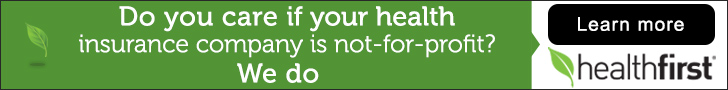
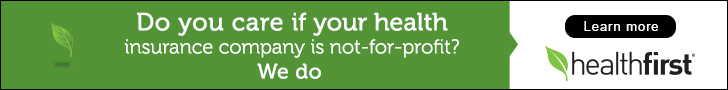
728x90 drawer update

diff --git a/Brand_NFP_English_Display/728x90/dist/index.html b/Brand_NFP_English_Display/728x90/dist/index.html
@@ -1,4 +1,4 @@
-<!DOCTYPE html><html><head><title>Brand_NFP_English_Display_728x90</title><meta charset="utf-8"><meta http-equiv="X-UA-Compatible" content="IE=edge,chrome=1"><meta name="viewport" content="width=device-width,initial-scale=1,maximum-scale=1,user-scalable=no"><meta name="ad.size" content="width=728,height=90"><style media="screen, projection">a,abbr,acronym,address,applet,article,aside,audio,b,big,blockquote,body,canvas,caption,center,cite,code,dd,del,details,dfn,div,dl,dt,em,embed,fieldset,figcaption,figure,footer,form,h1,h2,h3,h4,h5,h6,header,hgroup,html,i,iframe,img,ins,kbd,label,legend,li,mark,menu,nav,object,ol,output,p,pre,q,ruby,s,samp,section,small,span,strike,strong,sub,summary,sup,table,tbody,td,tfoot,th,thead,time,tr,tt,u,ul,var,video{margin:0;padding:0;border:0;font:inherit;font-size:100%;vertical-align:baseline}html{line-height:1}ol,ul{list-style:none}table{border-collapse:collapse;border-spacing:0}caption,td,th{text-align:left;font-weight:400;vertical-align:middle}blockquote,q{quotes:none}blockquote:after,blockquote:before,q:after,q:before{content:"";content:none}a img{border:none}article,aside,details,figcaption,figure,footer,header,hgroup,main,menu,nav,section,summary{display:block}*,:after,:before{-moz-box-sizing:border-box;-webkit-box-sizing:border-box;box-sizing:border-box}#bg,#click_through,#copy-1,#copy-2,#drawer,#drawer-bg,#leaf,#lockup,#logo,#wrapper,.abs-pos{position:absolute;top:0;left:0;width:728px;height:90px;overflow:hidden}#bg{background:#569035}#wrapper{position:relative;visibility:hidden}#wrapper.show{visibility:visible}#click_through{z-index:999;cursor:pointer;background-color:rgba(255,255,255,0);border:1px solid #000}#leaf{background:url(./sprites-sdd1969a0f3.png) 0 -180px}#logo{background:url(./sprites-sdd1969a0f3.png) 0 -360px}#copy-1{background:url(./sprites-sdd1969a0f3.png) 0 0}#copy-2{background:url(./sprites-sdd1969a0f3.png) 0 -90px}#lockup{background:url(./sprites-sdd1969a0f3.png) 0 -270px}</style></head><body><div id="wrapper"><div id="bg"></div><div id="click_through"></div><div id="leaf"></div><div id="copy-1"></div><div id="copy-2"></div><div id="logo"></div><div id="drawer"><svg version="1.1" id="Layer_1" xmlns="https://www.w3.org/2000/svg" xmlns:xlink="https://www.w3.org/1999/xlink" x="0px" y="0px" viewBox="0 0 728 90" style="enable-background:new 0 0 728 90" xml:space="preserve"><style type="text/css">.st0{fill:#FFFFFF;}</style><polygon class="st0" points="510,90 510,55 518,44 510,33 510,0 728,0 728,90 "/></svg></div><div id="lockup"></div></div><script type="text/javascript" src="https://s0.2mdn.net/ads/studio/cached_libs/tweenmax_1.18.0_499ba64a23378545748ff12d372e59e9_min.js"></script><script type="text/javascript">var HF=HF||{};!function(){function s(s){if("string"==typeof s)for(var t=0;t<this.length;t++)if(1===this[t].nodeType&&this[t].className.match(new RegExp("(\\s|^)"+s+"(\\s|$)")))return!0;return!1}function t(s){if("string"==typeof s)for(var t=0;t<this.length;t++)if(!this.hasClass(s))for(var e=0;e<this.length;e++)this[e].className+=(""===this[e].className?"":" ")+s;return this}function e(s){if("string"==typeof s)for(var t=0;t<this.length;t++)if(this.hasClass(s)){var e=new RegExp("(\\s|^)"+s+"(\\s|$)");this[t].className=this[t].className.replace(e," ")}return this}HF.$=function(r){var a,i=!!document.querySelectorAll;if(i)try{a=document.querySelectorAll(r),a.hasClass=s,a.addClass=t,a.removeClass=e}catch(n){}return a}}();</script><script type="text/javascript">var HF=HF||{};!function(){"use strict";HF.useFallback=function(){var e=10,n=-1,a=navigator.userAgent,r=new RegExp("MSIE ([0-9]{1,}[.0-9]{0,})");return null!==r.exec(a)&&(n=parseFloat(RegExp.$1)),n>0&&n<=e}}();</script><script type="text/javascript">var nameSpace=HF||{};!function(){"use strict";var e,a,o,t,n,c,i;nameSpace.init=function(){i=[];for(var e=document.getElementsByTagName("*"),r=0;r<e.length;r++){var p=e[r];p.id&&(window[p.id]=document.getElementById(p.id),"wrapper"!==p.id&&"click_through"!==p.id&&"bg"!==p.id&&i.push(p))}n=728,c=90,i.forEach(function(e){}),TweenMax.set(["#copy-1"],{x:728,y:0,autoAlpha:0}),TweenMax.set(["#copy-2"],{x:728,y:0,autoAlpha:0}),TweenMax.set(["#drawer","#lockup"],{x:250,autoAlpha:1}),TweenMax.set(["#logo"],{y:0,autoAlpha:1}),TweenMax.set(["#leaf"],{x:-250,y:0,scale:.6,autoAlpha:0}),TweenMax.set("#drawer-bg",{y:0,autoAlpha:1}),a=nameSpace.$("#wrapper"),o=document.getElementById("click_through"),t=nameSpace.$("#cta"),a.addClass("show"),nameSpace.initClickTag(),nameSpace.initAnimation(),nameSpace.useFallback()?nameSpace.injectFallback():nameSpace.startAnimation(),click_through.onmouseover=function(){TweenMax.to("#cta",.2,{scale:1.25,y:0,transformOrigin:"65% 80%",z:.01,force3D:!0,rotationZ:.01,transformPerspective:400})},click_through.onmouseout=function(){TweenMax.to("#cta",.2,{scale:1,force3D:!0,z:.01,rotationZ:.01,transformPerspective:400,y:0})}},nameSpace.initClickTag=function(){o.onclick=function(){window.open(window.clickTag)}},nameSpace.injectFallback=function(){for(var e=document.body;e.firstChild;)e.removeChild(e.firstChild);var a=document.createElement("a");a.style.cursor="pointer";var o=new Image;o.src="././static.jpg",a.appendChild(o),a.onclick=function(){window.open(window.clickTag)},document.body.appendChild(a)},nameSpace.initAnimation=function(){e=new TimelineMax({delay:1.5,onComplete:nameSpace.onAnimationComplete}),e.pause(),e.to(["#logo"],.3,{autoAlpha:0,transformPerspective:400,force3D:!0,rotationZ:.01,ease:Power1.easeInOut},"+= 0").to("#leaf",1,{x:-250,autoAlpha:1,scale:.6,transformPerspective:400,force3D:!0,rotationZ:.01,ease:Power1.easeOut},"+=0.75").to("#copy-1",1.3,{x:100,autoAlpha:1,transformPerspective:400,force3D:!0,rotationZ:.01,ease:Power1.easeOut},"-= 1.3").to(["#copy-1","#copy-2"],1.2,{y:0,x:100,autoAlpha:1,transformPerspective:400,force3D:!0,rotationZ:.01,ease:Power1.easeOut},"+=1.75").to(["#lockup","#drawer","#copy-1","#copy-2"],1.25,{x:0,autoAlpha:1,transformPerspective:400,force3D:!0,rotationZ:.01,ease:Power1.easeInOut},"+=2").to("#leaf",1.25,{x:-300,transformPerspective:400,force3D:!0,rotationZ:.01,ease:Power1.easeInOut},"-=1.25")},nameSpace.startAnimation=function(){e.play()},nameSpace.onAnimationComplete=function(){console.log("Animation Duration: "+e.time()+"s")}}();</script><script type="text/javascript">var clickTag = 'https://www.google.com';
+<!DOCTYPE html><html><head><title>Brand_NFP_English_Display_728x90</title><meta charset="utf-8"><meta http-equiv="X-UA-Compatible" content="IE=edge,chrome=1"><meta name="viewport" content="width=device-width,initial-scale=1,maximum-scale=1,user-scalable=no"><meta name="ad.size" content="width=728,height=90"><style media="screen, projection">a,abbr,acronym,address,applet,article,aside,audio,b,big,blockquote,body,canvas,caption,center,cite,code,dd,del,details,dfn,div,dl,dt,em,embed,fieldset,figcaption,figure,footer,form,h1,h2,h3,h4,h5,h6,header,hgroup,html,i,iframe,img,ins,kbd,label,legend,li,mark,menu,nav,object,ol,output,p,pre,q,ruby,s,samp,section,small,span,strike,strong,sub,summary,sup,table,tbody,td,tfoot,th,thead,time,tr,tt,u,ul,var,video{margin:0;padding:0;border:0;font:inherit;font-size:100%;vertical-align:baseline}html{line-height:1}ol,ul{list-style:none}table{border-collapse:collapse;border-spacing:0}caption,td,th{text-align:left;font-weight:400;vertical-align:middle}blockquote,q{quotes:none}blockquote:after,blockquote:before,q:after,q:before{content:"";content:none}a img{border:none}article,aside,details,figcaption,figure,footer,header,hgroup,main,menu,nav,section,summary{display:block}*,:after,:before{-moz-box-sizing:border-box;-webkit-box-sizing:border-box;box-sizing:border-box}#bg,#click_through,#copy-1,#copy-2,#drawer,#drawer-bg,#leaf,#lockup,#logo,#wrapper,.abs-pos{position:absolute;top:0;left:0;width:728px;height:90px;overflow:hidden}#bg{background:#569035}#wrapper{position:relative;visibility:hidden}#wrapper.show{visibility:visible}#click_through{z-index:999;cursor:pointer;background-color:rgba(255,255,255,0);border:1px solid #000}#leaf{background:url(./sprites-sdd1969a0f3.png) 0 -180px}#logo{background:url(./sprites-sdd1969a0f3.png) 0 -360px}#copy-1{background:url(./sprites-sdd1969a0f3.png) 0 0}#copy-2{background:url(./sprites-sdd1969a0f3.png) 0 -90px}#lockup{background:url(./sprites-sdd1969a0f3.png) 0 -270px}</style></head><body><div id="wrapper"><div id="bg"></div><div id="click_through"></div><div id="leaf"></div><div id="copy-1"></div><div id="copy-2"></div><div id="logo"></div><div id="drawer"><svg version="1.1" id="Layer_1" xmlns="https://www.w3.org/2000/svg" xmlns:xlink="https://www.w3.org/1999/xlink" x="0px" y="0px" viewBox="0 0 728 90" style="enable-background:new 0 0 728 90" xml:space="preserve"><style type="text/css">.st0{fill:#FFFFFF;}</style><polygon class="st0" points="510,90 510,55 518,44 510,33 510,0 728,0 728,90 "/></svg></div><div id="lockup"></div></div><script type="text/javascript" src="https://s0.2mdn.net/ads/studio/cached_libs/tweenmax_1.18.0_499ba64a23378545748ff12d372e59e9_min.js"></script><script type="text/javascript">var HF=HF||{};!function(){function s(s){if("string"==typeof s)for(var t=0;t<this.length;t++)if(1===this[t].nodeType&&this[t].className.match(new RegExp("(\\s|^)"+s+"(\\s|$)")))return!0;return!1}function t(s){if("string"==typeof s)for(var t=0;t<this.length;t++)if(!this.hasClass(s))for(var e=0;e<this.length;e++)this[e].className+=(""===this[e].className?"":" ")+s;return this}function e(s){if("string"==typeof s)for(var t=0;t<this.length;t++)if(this.hasClass(s)){var e=new RegExp("(\\s|^)"+s+"(\\s|$)");this[t].className=this[t].className.replace(e," ")}return this}HF.$=function(r){var a,i=!!document.querySelectorAll;if(i)try{a=document.querySelectorAll(r),a.hasClass=s,a.addClass=t,a.removeClass=e}catch(n){}return a}}();</script><script type="text/javascript">var HF=HF||{};!function(){"use strict";HF.useFallback=function(){var e=10,n=-1,a=navigator.userAgent,r=new RegExp("MSIE ([0-9]{1,}[.0-9]{0,})");return null!==r.exec(a)&&(n=parseFloat(RegExp.$1)),n>0&&n<=e}}();</script><script type="text/javascript">var nameSpace=HF||{};!function(){"use strict";var e,a,o,t,n,c,i;nameSpace.init=function(){i=[];for(var e=document.getElementsByTagName("*"),r=0;r<e.length;r++){var p=e[r];p.id&&(window[p.id]=document.getElementById(p.id),"wrapper"!==p.id&&"click_through"!==p.id&&"bg"!==p.id&&i.push(p))}n=728,c=90,i.forEach(function(e){}),TweenMax.set(["#copy-1"],{x:780,y:0,autoAlpha:0}),TweenMax.set(["#copy-2"],{x:728,y:0,autoAlpha:0}),TweenMax.set(["#drawer","#lockup"],{x:250,autoAlpha:1}),TweenMax.set(["#logo"],{y:0,autoAlpha:1}),TweenMax.set(["#leaf"],{x:478,y:0,scale:.6,autoAlpha:1}),TweenMax.set("#drawer-bg",{y:0,autoAlpha:1}),a=nameSpace.$("#wrapper"),o=document.getElementById("click_through"),t=nameSpace.$("#cta"),a.addClass("show"),nameSpace.initClickTag(),nameSpace.initAnimation(),nameSpace.useFallback()?nameSpace.injectFallback():nameSpace.startAnimation(),click_through.onmouseover=function(){TweenMax.to("#cta",.2,{scale:1.25,y:0,transformOrigin:"65% 80%",z:.01,force3D:!0,rotationZ:.01,transformPerspective:400})},click_through.onmouseout=function(){TweenMax.to("#cta",.2,{scale:1,force3D:!0,z:.01,rotationZ:.01,transformPerspective:400,y:0})}},nameSpace.initClickTag=function(){o.onclick=function(){window.open(window.clickTag)}},nameSpace.injectFallback=function(){for(var e=document.body;e.firstChild;)e.removeChild(e.firstChild);var a=document.createElement("a");a.style.cursor="pointer";var o=new Image;o.src="././static.jpg",a.appendChild(o),a.onclick=function(){window.open(window.clickTag)},document.body.appendChild(a)},nameSpace.initAnimation=function(){e=new TimelineMax({delay:1.5,onComplete:nameSpace.onAnimationComplete}),e.pause(),e.to(["#logo"],.3,{autoAlpha:0,transformPerspective:400,force3D:!0,rotationZ:.01,ease:Power1.easeInOut},"+= 0").to("#leaf",1.3,{x:-250,autoAlpha:1,scale:.6,transformPerspective:400,force3D:!0,rotationZ:.01,ease:Power1.easeOut},"-= 0.3").to("#copy-1",1.3,{x:100,autoAlpha:1,transformPerspective:400,force3D:!0,rotationZ:.01,ease:Power1.easeOut},"-= 1.3").to(["#copy-1","#copy-2"],1.2,{y:0,x:100,autoAlpha:1,transformPerspective:400,force3D:!0,rotationZ:.01,ease:Power1.easeOut},"+=1.75").to(["#lockup","#drawer","#copy-1","#copy-2"],1.25,{x:0,autoAlpha:1,transformPerspective:400,force3D:!0,rotationZ:.01,ease:Power1.easeInOut},"+=2").to("#leaf",1.25,{x:-300,transformPerspective:400,force3D:!0,rotationZ:.01,ease:Power1.easeInOut},"-=1.25")},nameSpace.startAnimation=function(){e.play()},nameSpace.onAnimationComplete=function(){console.log("Animation Duration: "+e.time()+"s")}}();</script><script type="text/javascript">var clickTag = 'https://www.google.com';
 
     window.onload = function () {
       HF.init();

diff --git a/Brand_NFP_English_Display/728x90/src/js/index.js b/Brand_NFP_English_Display/728x90/src/js/index.js
@@ -41,11 +41,11 @@ var nameSpace = HF || {};
     ids.forEach(function(element) {
       //   TweenMax.to(element, 0, { autoAlpha: 0, y: height - 100 });
     });
-    TweenMax.set(['#copy-1'], { x: 728, y:0,  autoAlpha: 0 });
+    TweenMax.set(['#copy-1'], { x: 780, y:0,  autoAlpha: 0 });
     TweenMax.set(['#copy-2'], { x: 728, y: 0, autoAlpha: 0 });
     TweenMax.set(['#drawer', '#lockup'], { x: 250, autoAlpha: 1 });
     TweenMax.set(['#logo'], { y: 0, autoAlpha: 1 });
-    TweenMax.set(['#leaf'], { x: -250,  y: 0, scale: 0.6, autoAlpha: 0 });
+    TweenMax.set(['#leaf'], { x: 478,  y: 0, scale: 0.6, autoAlpha: 1 });
     TweenMax.set('#drawer-bg', { y: 0, autoAlpha: 1 });
 
     wrapper = nameSpace.$('#wrapper');
@@ -141,7 +141,7 @@ var nameSpace = HF || {};
       )
       .to(
         '#leaf',
-        1,
+        1.3,
         {
           x: -250,
           autoAlpha: 1,
@@ -151,7 +151,7 @@ var nameSpace = HF || {};
           rotationZ: 0.01,
           ease: Power1.easeOut
         },
-        '+=0.75'
+        '-= 0.3'
       )
       .to(
         '#copy-1',

diff --git a/Brand_NFP_English_Display/728x90/src/css/styles.css b/Brand_NFP_English_Display/728x90/src/css/styles.css
@@ -76,16 +76,16 @@ article, aside, details, figcaption, figure, footer, header, hgroup, main, menu,
   border: 1px solid #000000; }
 
 #leaf {
-  background: url('../img/sprites-sdd1969a0f3.png') 0 -180px; }
+  background: url('../img/sprites-s1c57ba119d.png') 0 -180px; }
 
 #logo {
-  background: url('../img/sprites-sdd1969a0f3.png') 0 -360px; }
+  background: url('../img/sprites-s1c57ba119d.png') 0 -360px; }
 
 #copy-1 {
-  background: url('../img/sprites-sdd1969a0f3.png') 0 0; }
+  background: url('../img/sprites-s1c57ba119d.png') 0 0; }
 
 #copy-2 {
-  background: url('../img/sprites-sdd1969a0f3.png') 0 -90px; }
+  background: url('../img/sprites-s1c57ba119d.png') 0 -90px; }
 
 #lockup {
-  background: url('../img/sprites-sdd1969a0f3.png') 0 -270px; }
+  background: url('../img/sprites-s1c57ba119d.png') 0 -270px; }
